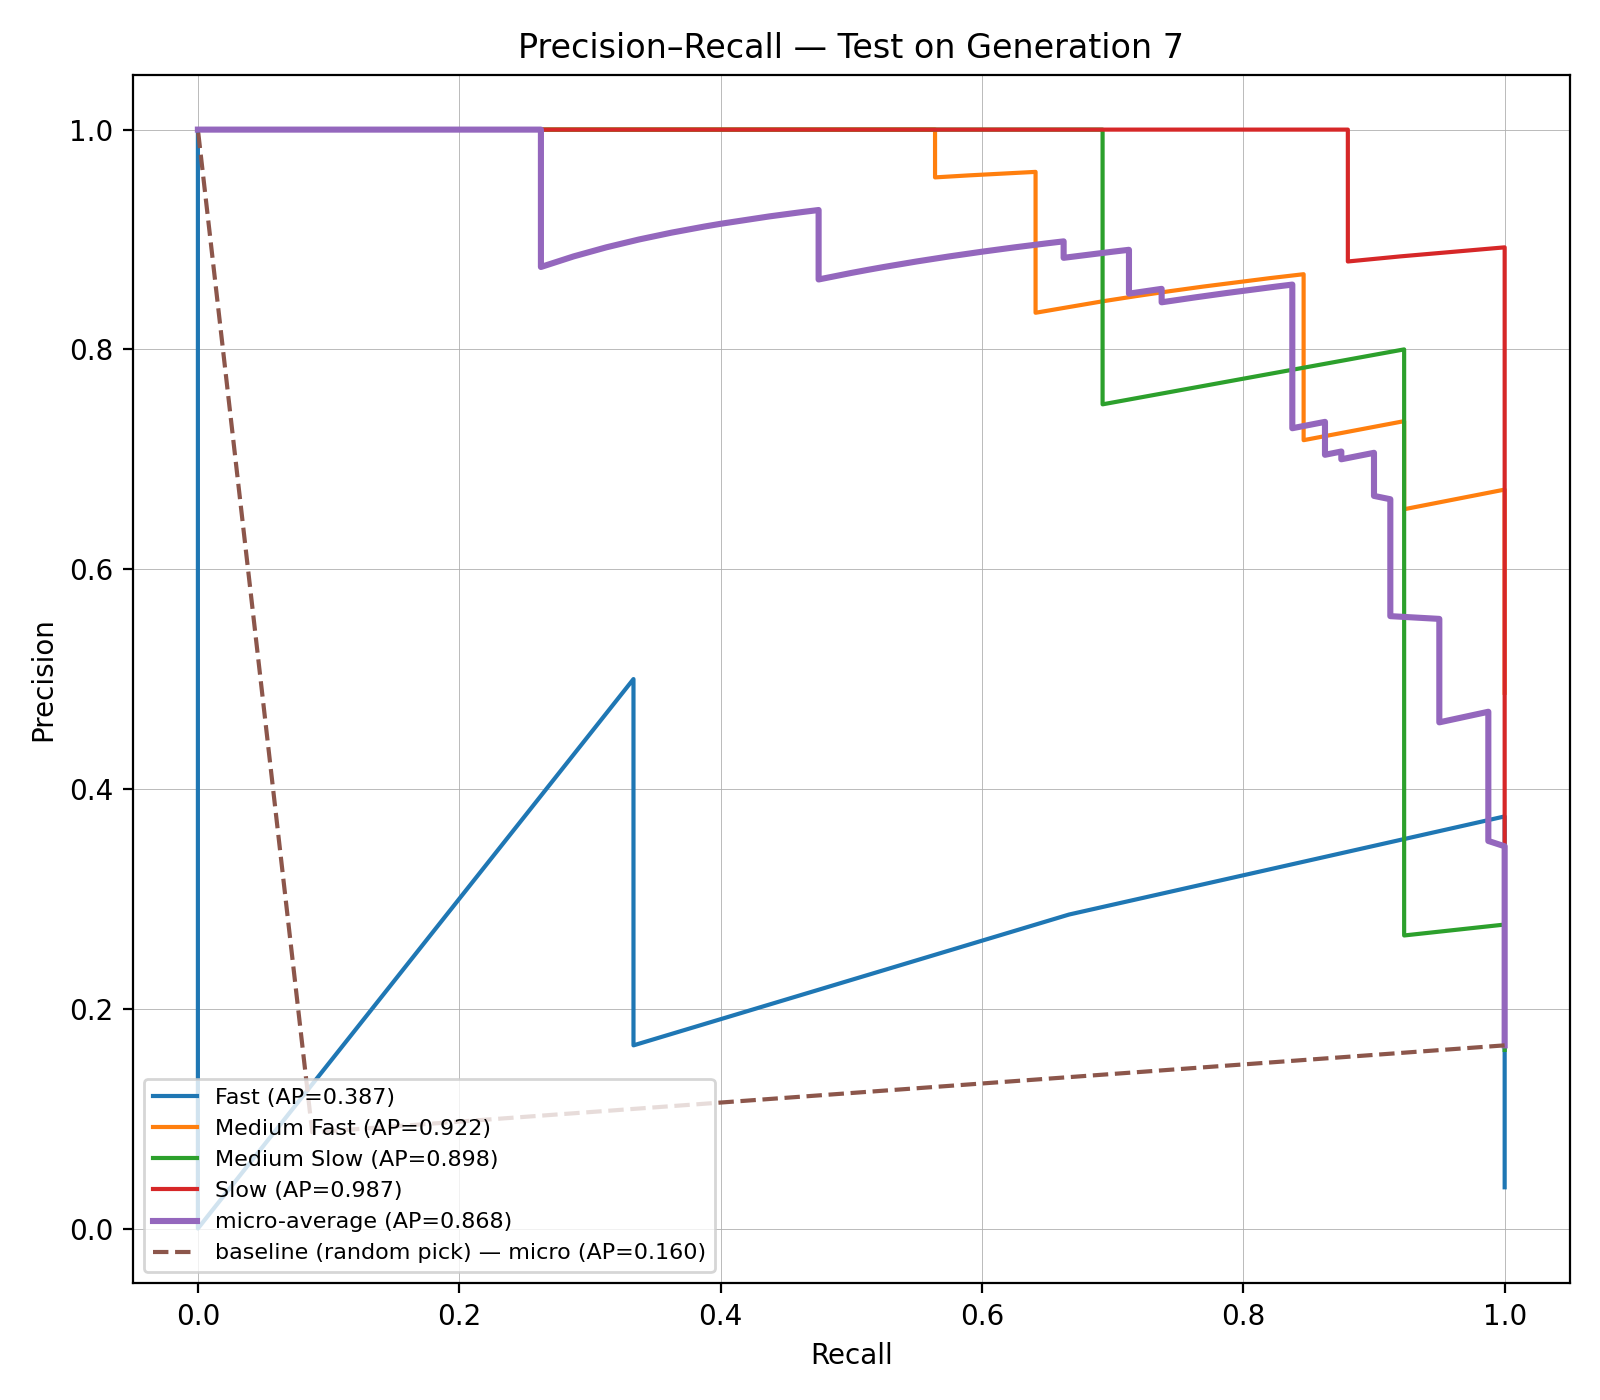
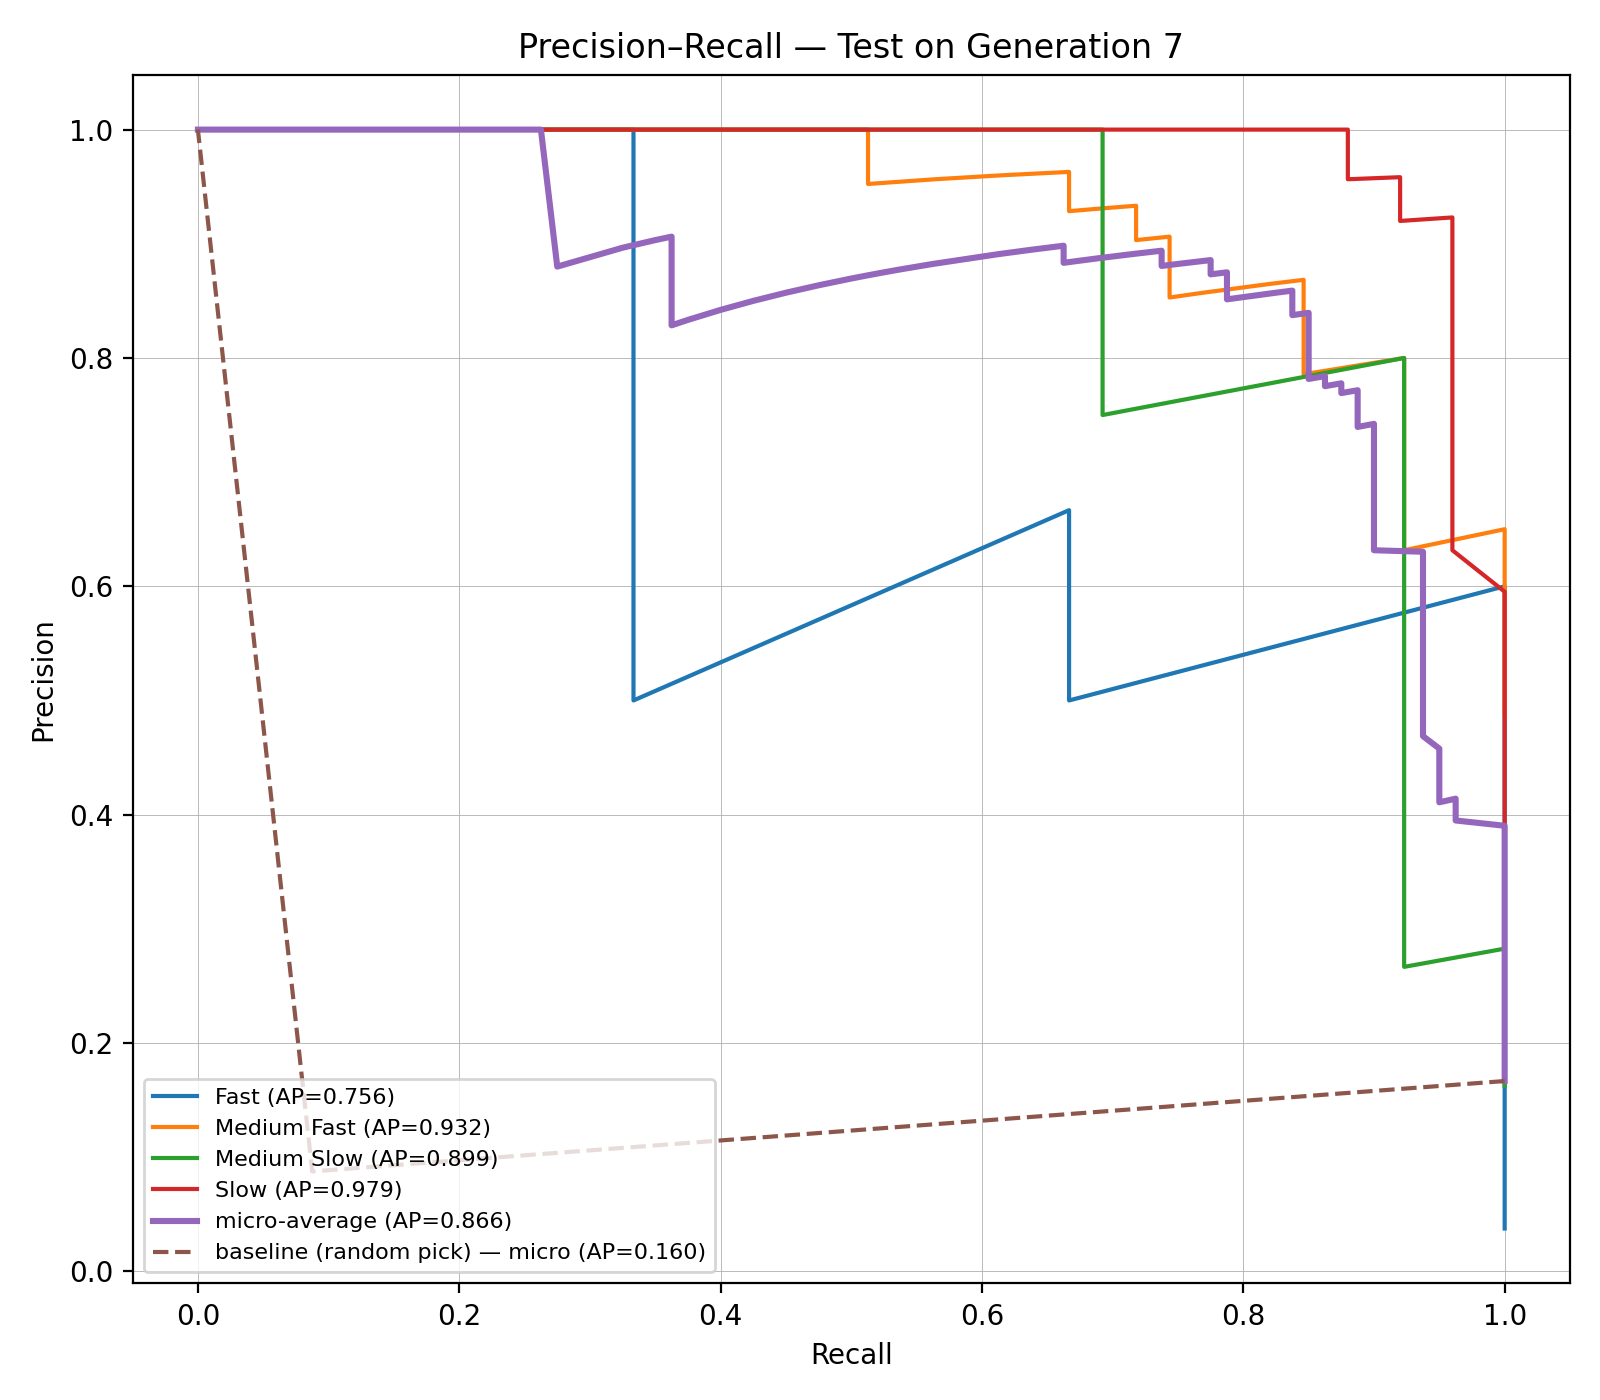
init final

diff --git a/classifier.py b/classifier.py
@@ -1,4 +1,3 @@
-#!/usr/bin/env python
 import warnings
 from pathlib import Path
 from collections import deque
@@ -26,7 +25,6 @@ from sklearn.metrics import (
 
 warnings.filterwarnings("ignore", category=FutureWarning)
 
-# ==== Static paths ====
 INPUT_PATH = Path("./data/completed_pokemon_set.parquet")
 OUTPUT_DIR = Path("./eval_with_all_groups_png")
 
@@ -34,12 +32,17 @@ OUTPUT_DIR = Path("./eval_with_all_groups_png")
 FEATURES = [
     "base_total",
     "evolution_stages",
-    "color",
     "capture_rate",
     "percentage_male",
     "base_experience",
     "base_egg_steps",
     "no_in_generation",
+    "color",
+    "is_legendary",
+    "height_m",
+    "weight_kg",
+    "attack",
+    "speed",
 ]
 EXTRA_COLS_FOR_EVOS = ["name", "evolves_to", "evolves_from"]
 TARGET = "experience_growth"
@@ -103,12 +106,14 @@ def clean_and_filter(df: pd.DataFrame) -> pd.DataFrame:
         "base_experience",
         "base_egg_steps",
         "no_in_generation",
+        "height_m",
+        "weight_kg",
+        "attack",
+        "speed",
         GEN_COL,
     ]
     for c in numeric_cols:
         dd[c] = pd.to_numeric(dd[c], errors="coerce")
-
-    dd["color"] = dd["color"].astype("string").fillna("unknown")
 
     dd = dd.dropna(subset=[GEN_COL, TARGET])
     dd[GEN_COL] = dd[GEN_COL].astype(int)
@@ -185,7 +190,7 @@ def plot_and_save_confusion_matrix(y_true, y_pred, labels, title, out_path: Path
 def plot_and_save_precision_recall(y_true, y_proba, classes, title, out_path: Path,
                                    baseline_proba=None):
     """
-    Per-class PR + micro-average; optional baseline overlay (micro).
+    Per-class PR + micro-average
     """
     Y_bin = label_binarize(y_true, classes=classes)
     if Y_bin.ndim == 1:
@@ -226,7 +231,7 @@ def plot_and_save_precision_recall(y_true, y_proba, classes, title, out_path: Pa
 def plot_and_save_roc(y_true, y_proba, classes, title, out_path: Path,
                       baseline_proba=None):
     """
-    Per-class ROC + micro-average; optional baseline overlay (micro).
+    Per-class ROC + micro-average
     """
     Y_bin = label_binarize(y_true, classes=classes)
     if Y_bin.ndim == 1:
@@ -277,10 +282,10 @@ def main():
     df = load_data()
     df = clean_and_filter(df)
 
-    categorical_cols = ["color"]
+    categorical_cols = ["color", "is_legendary"]
     numeric_cols = [c for c in FEATURES if c not in categorical_cols]
 
-    all_classes = sorted(df[TARGET].dropna().unique().tolist())  # includes Erratic/Fluctuating
+    all_classes = sorted(df[TARGET].dropna().unique().tolist())
     name_to_finals = build_final_evolution_map(df)
 
     gens = sorted(df[GEN_COL].unique().tolist())
@@ -289,7 +294,6 @@ def main():
 
     all_cls_index = {c: i for i, c in enumerate(all_classes)}
 
-    # --- Accumulators for overall (all-gens) summary & curves ---
     overall_true = []
     overall_pred = []
     overall_model_proba = []
@@ -350,11 +354,10 @@ def main():
         y_pred = np.array([all_classes[i] for i in averaged_probas.argmax(axis=1)])
         y_test = test_df_full[TARGET].astype(str).values
 
-        # Accumulate across gens for overall summary & overall curves
         overall_true.append(y_test)
         overall_pred.append(y_pred)
 
-        # -------- Baseline: random pick among ALLOWED_PREDICT_CLASSES --------
+        # Baseline: random pick
         rng = np.random.default_rng(RANDOM_STATE + int(g))
         baseline_labels = rng.choice(ALLOWED_PREDICT_CLASSES, size=len(test_df_full))
         baseline_proba = np.zeros_like(averaged_probas)
@@ -364,7 +367,7 @@ def main():
         overall_model_proba.append(averaged_probas)
         overall_baseline_proba.append(baseline_proba)
 
-        # ----- Per-generation results.txt section -----
+        # Per-generation results
         correct = int((y_pred == y_test).sum())
         total = len(y_test)
         incorrect = total - correct
@@ -399,7 +402,7 @@ def main():
         print(f"\n=== Generation {g}: test size={total} ===")
         print(classification_report(y_test, y_pred, labels=all_classes, zero_division=0))
 
-        # ----- Per-generation figures -----
+        # Per-generation figures
         cm_path = OUTPUT_DIR / f"confusion_matrix_gen{g}.png"
         plot_and_save_confusion_matrix(
             y_true=y_test, y_pred=y_pred, labels=all_classes,
@@ -420,7 +423,7 @@ def main():
             out_path=roc_path, baseline_proba=baseline_proba
         )
 
-    # ---------- Overall (All Generations) ----------
+    # All generations
     y_true_all = np.concatenate(overall_true, axis=0) if overall_true else np.array([])
     y_pred_all = np.concatenate(overall_pred, axis=0) if overall_pred else np.array([])
 
@@ -451,7 +454,7 @@ def main():
         f.write("\n".join(per_class_overall_lines) + "\n")
         f.write(pred_line_all + "\n")
 
-    # Overall PR/ROC across all generations
+    # Overall PR/ROC
     if overall_model_proba:
         proba_all = np.concatenate(overall_model_proba, axis=0)
         baseline_all = np.concatenate(overall_baseline_proba, axis=0)
@@ -461,7 +464,7 @@ def main():
             y_true=y_true_all,
             y_proba=proba_all,
             classes=all_classes,
-            title="Precision–Recall — Overall (All Generations)",
+            title="Precision-Recall — Overall (All Generations)",
             out_path=pr_overall_path,
             baseline_proba=baseline_all
         )
